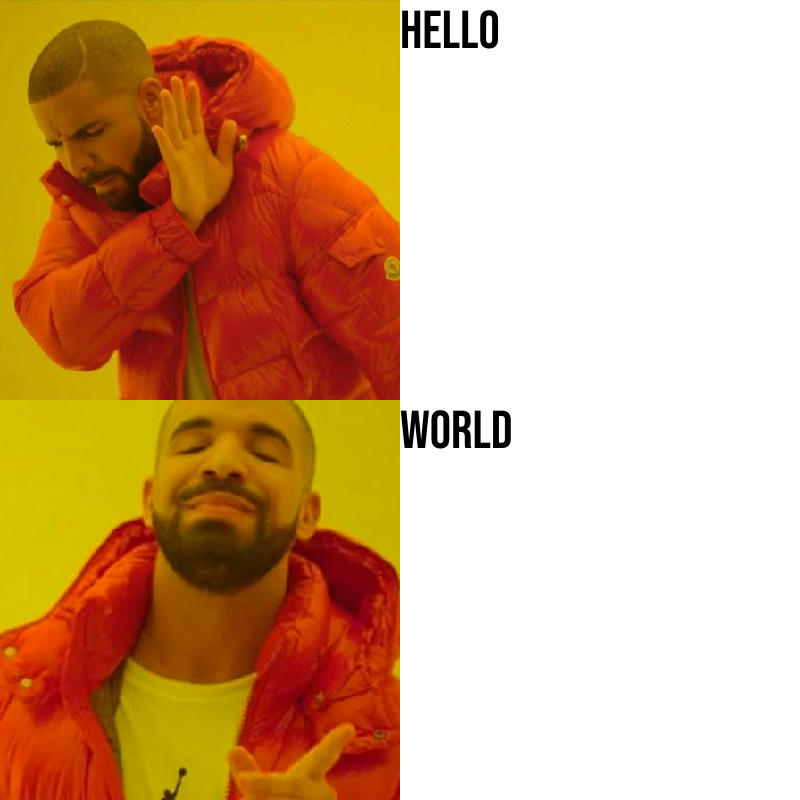
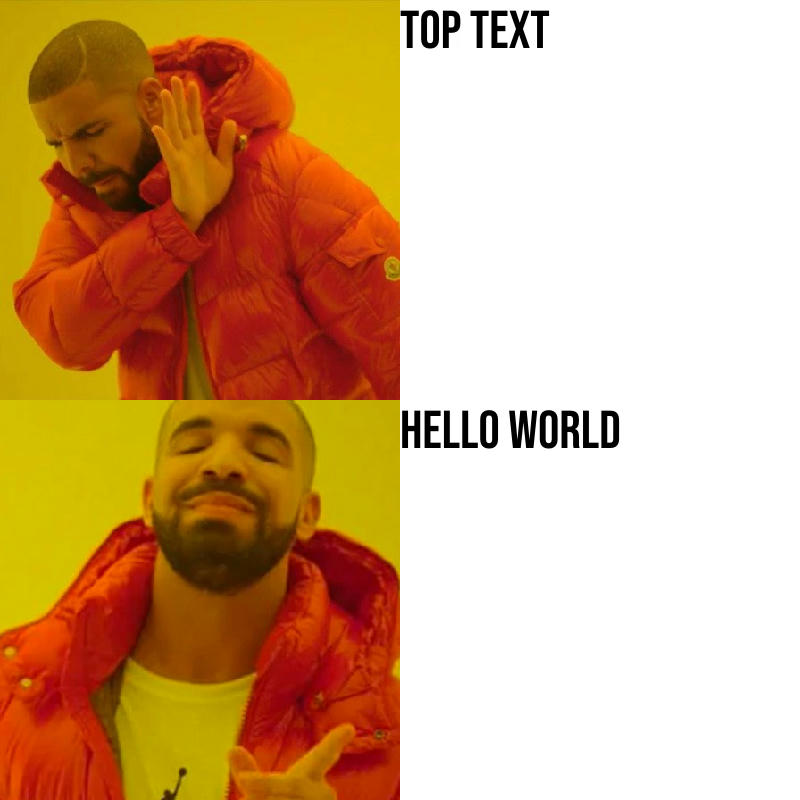
update README

Changed region(s): [[0.5, 0.5, 0.7812, 0.5625], [0.5, 0.0, 0.6875, 0.0625]]

diff --git a/README.md b/README.md
@@ -6,14 +6,48 @@ Meme generator
 
 ### Drake
 ```bash
-memers drake --top-text <TOP_TEXT> --bottom-text <BOTTOM_TEXT> <OUTPUT_PATH>
+memers drake <TOP_TEXT> <BOTTOM_TEXT> <OUTPUT_PATH>
 ```
 
 #### Example
 ```bash
-memers drake --top-text Hello --bottom-text World drake.jpg
+memers drake "TOP TEXT" "Hello world" drake.jpg
 ```
 ![](docs_assets/drake.jpg)
+
+### GigaChad (GIF)
+```bash
+memers gigachad <TEXT> <OUTPUT_PATH>
+```
+
+### Example
+```bash
+memers gigachad "Average Rust Fan" giga.gif
+```
+
+### Average Fan vs. Average Enjoyer (GigaChad) [GIF]
+```bash
+memers fve <FAN_TEXT> <ENJOYER_TEXT> <OUTPUT_PATH>
+```
+
+### Example
+```bash
+memers fve "Average Iron Oxide Fan" "Average Rust Fan" giga.gif
+```
+
+## Building locally
+
+### Debug mode
+
+```bash
+cargo run
+```
+
+### Release build
+
+```bash
+cargo build --release
+```
 
 ## Fonts
 Using [Bebas Neue](https://github.com/dharmatype/Bebas-Neue).
